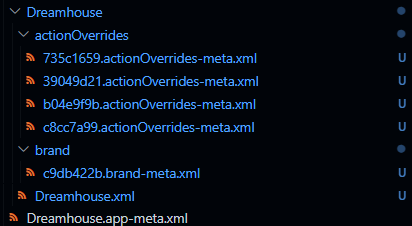
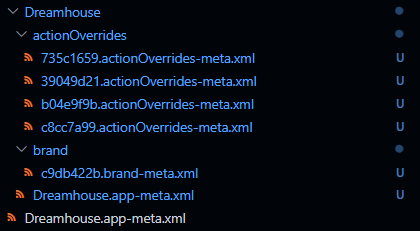
fix: use the full name of the original file to name the disassembled leaf file

diff --git a/src/service/disassembleXMLFileHandler.ts b/src/service/disassembleXMLFileHandler.ts
@@ -33,9 +33,8 @@ export class DisassembleXMLFileHandler {
     if (filePath.endsWith(".xml")) {
       console.log(`Parsing file: ${filePath}`);
       const xmlContent = await fs.readFile(filePath, "utf-8");
-      const baseName = path
-        .basename(filePath, path.extname(filePath))
-        .split(".")[0];
+      const fullName = path.basename(filePath, path.extname(filePath));
+      const baseName = fullName.split(".")[0];
 
       let outputPath;
       outputPath = path.join(xmlPath, baseName);
@@ -44,7 +43,7 @@ export class DisassembleXMLFileHandler {
         outputPath,
         uniqueIdElements,
         xmlElement,
-        baseName,
+        fullName,
         INDENT,
       );
     }
